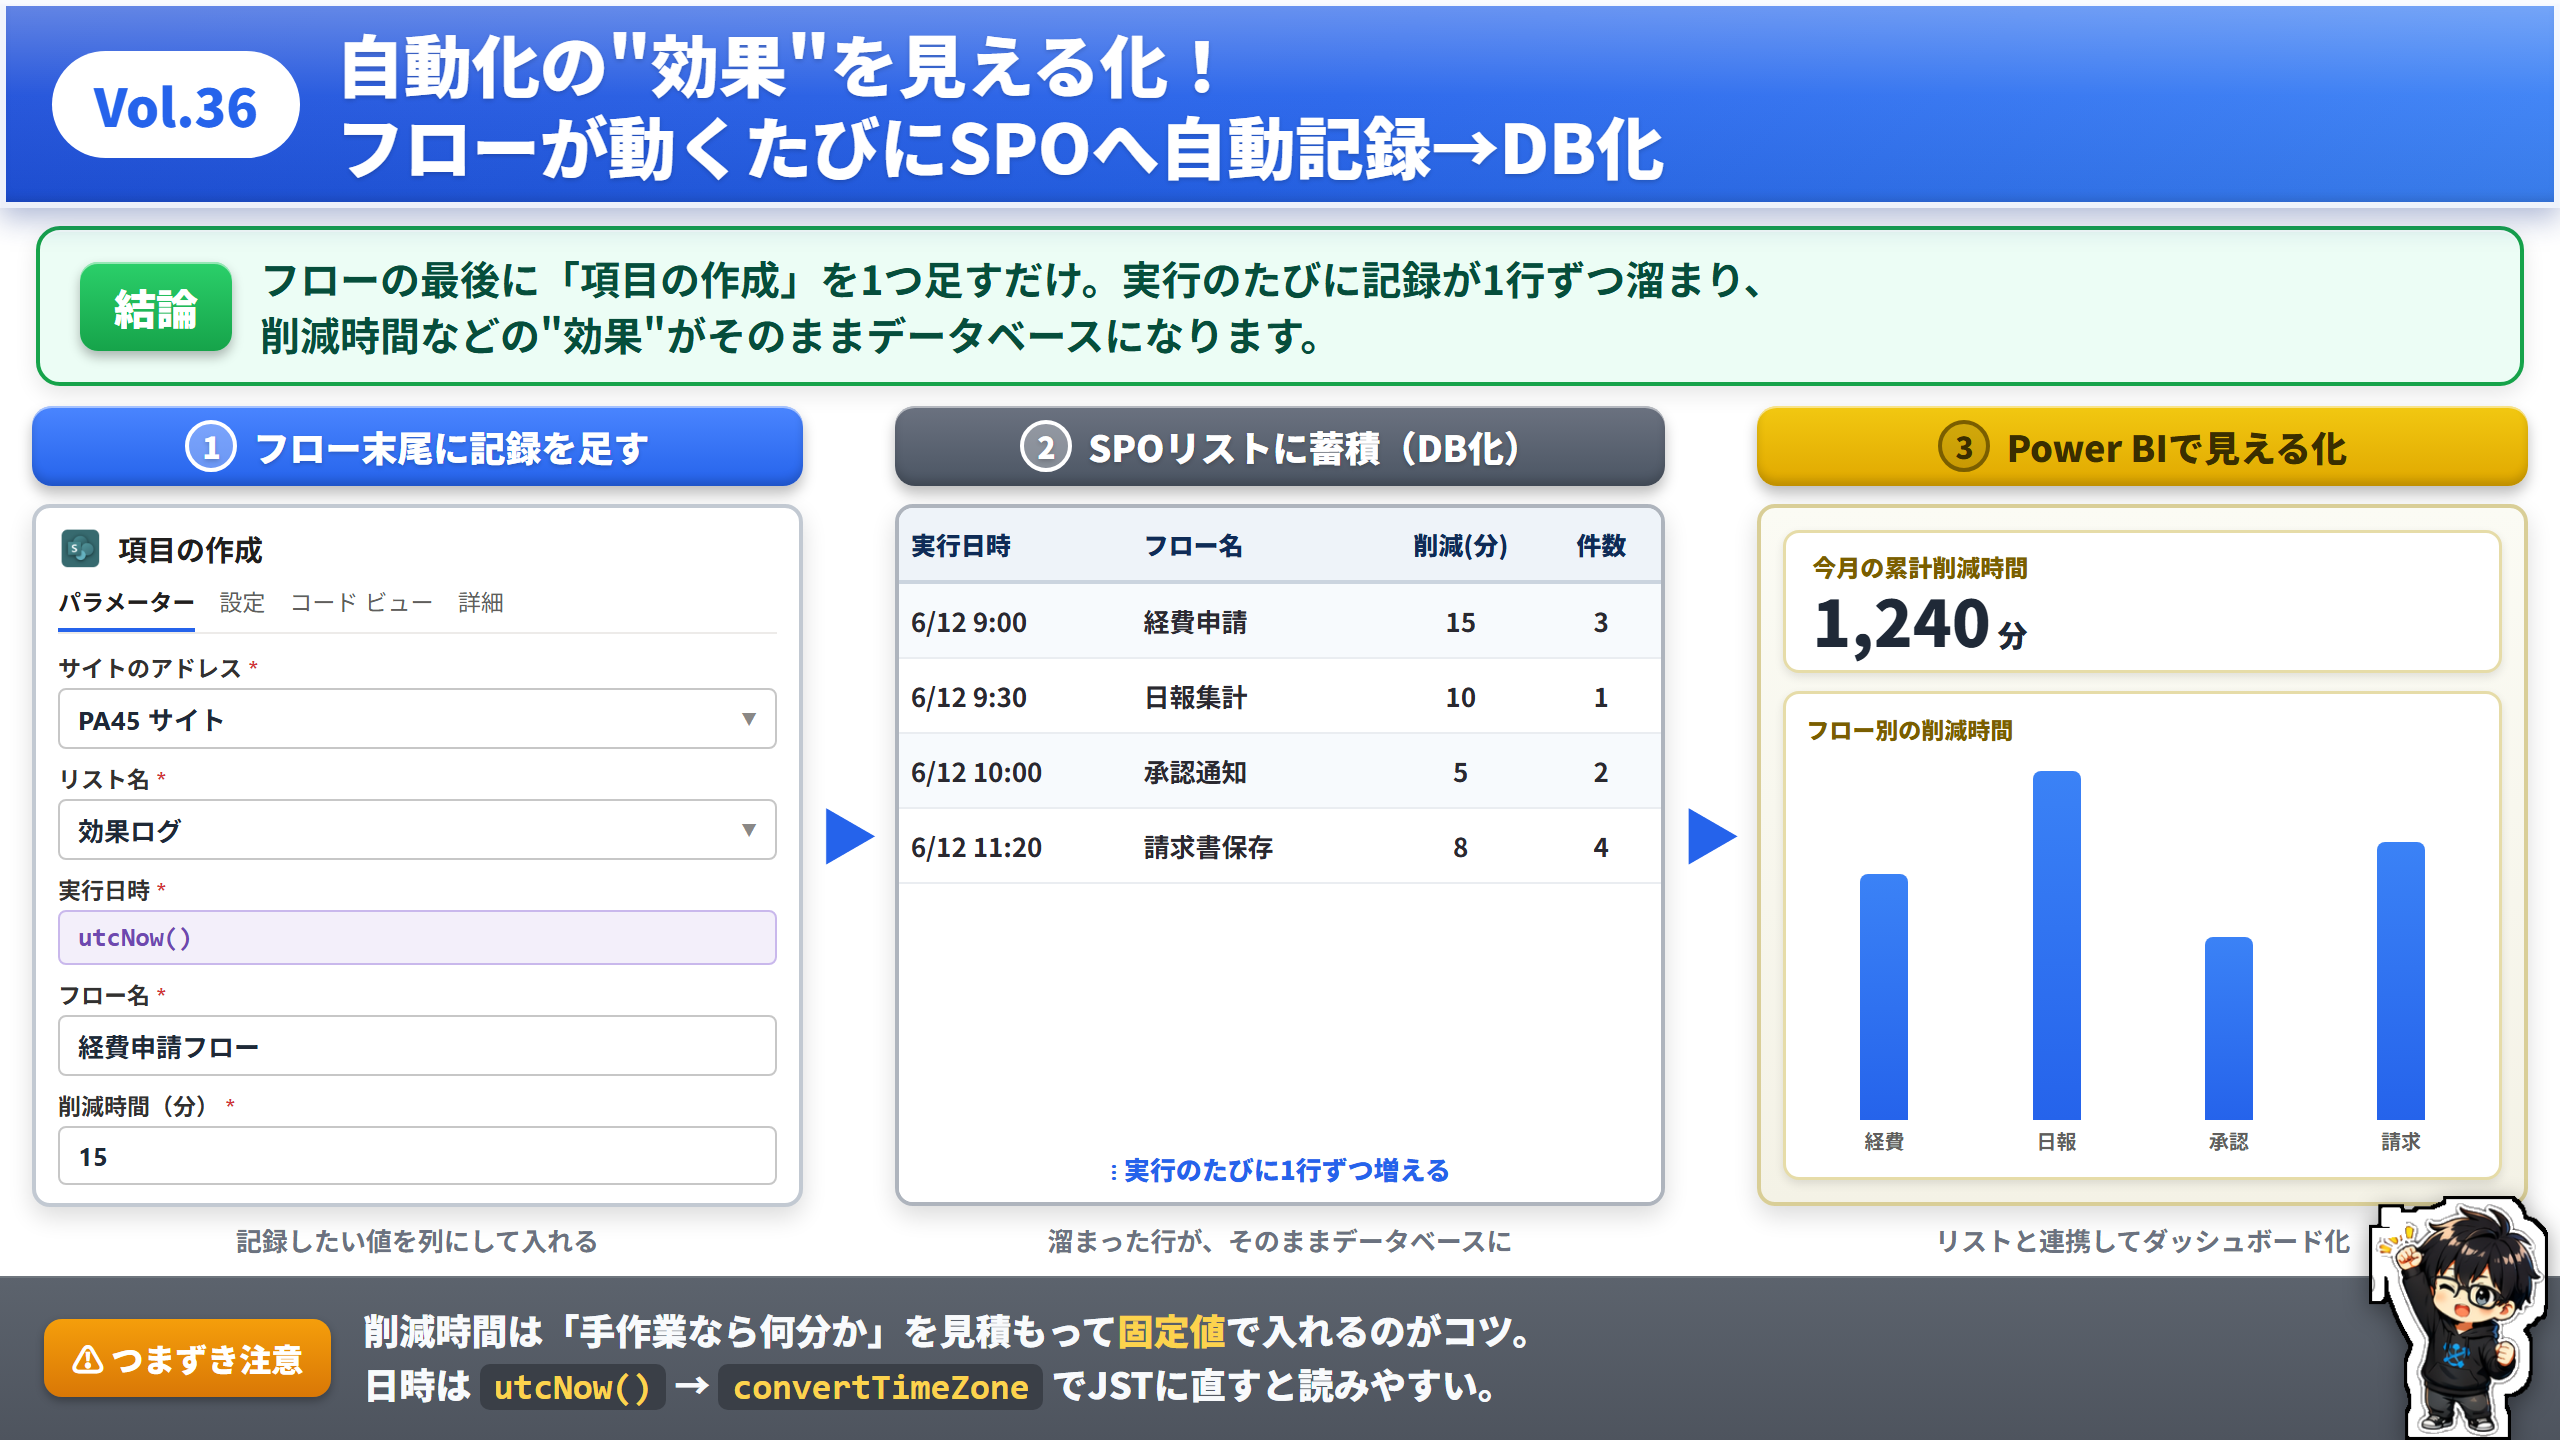
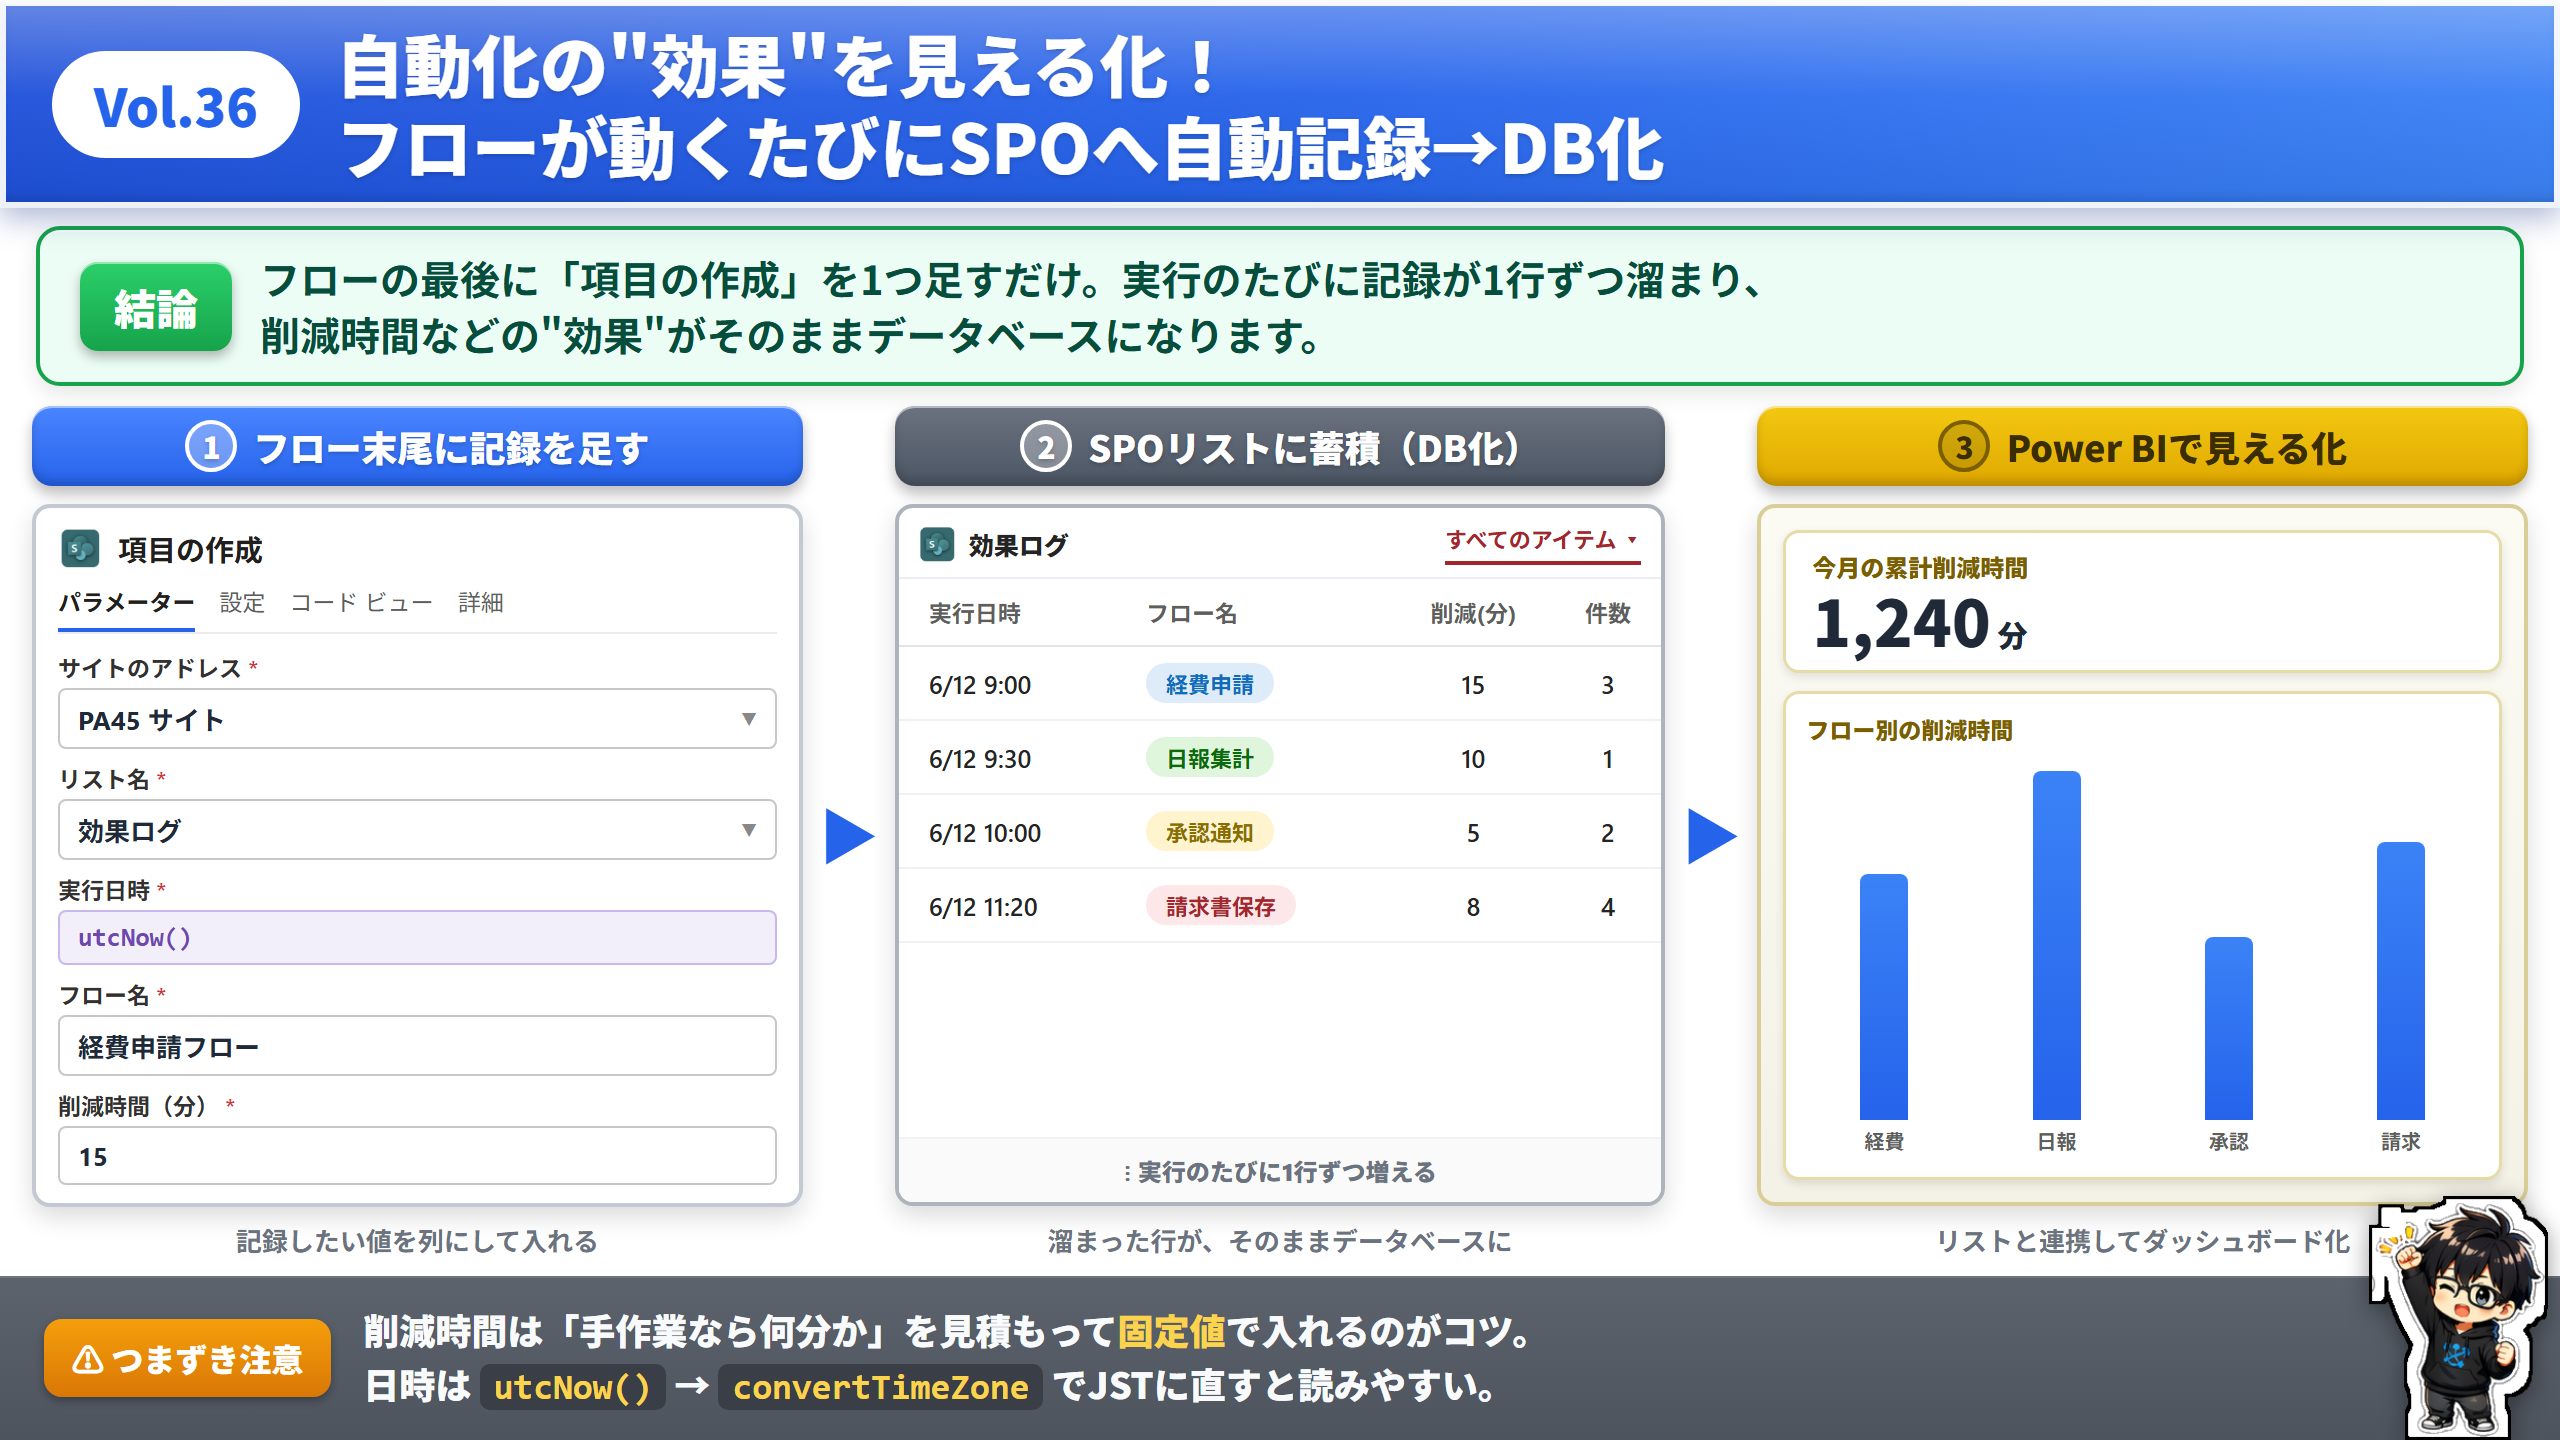
@ Vol.36 ②をMicrosoft Lists実画面に忠実再現(リスト名/ビュータブ/色付き選択肢ピル/列ヘッダー)
@

diff --git a/assets/x/html/vol-36/index.html b/assets/x/html/vol-36/index.html
@@ -52,15 +52,21 @@
   .fld .v .cv{color:#8A8886;font-size:9px;}
   .fld .v.dyn{color:#6E48B0;background:#F3EFFA;border-color:#C9B8EC;font-family:Consolas,monospace;}
 
-  /* ② SPOリスト テーブル */
-  .tbl{flex:1;background:#fff;border:2px solid #AEB4BD;border-radius:9px;box-shadow:0 5px 12px rgba(0,0,0,.14);overflow:hidden;display:flex;flex-direction:column;}
-  .tbl .tt{background:#EEF3F9;border-bottom:2px solid #CBD4DF;display:flex;font-weight:900;font-size:12.5px;color:#0F2B57;}
-  .tbl .tt div{padding:9px 6px;}
-  .tbl .row{display:flex;font-size:13px;font-weight:700;color:#2A2930;border-bottom:1px solid #EAEDF1;}
-  .tbl .row:nth-child(even){background:#F7FAFD;}
-  .tbl .row div{padding:9px 6px;}
-  .c1{flex:1.3;} .c2{flex:1.4;} .c3{flex:.85;text-align:center;} .c4{flex:.6;text-align:center;}
-  .tbl .more{padding:7px;text-align:center;color:var(--blue);font-weight:900;font-size:13px;background:#fff;margin-top:auto;}
+  /* ② Microsoft Lists 忠実再現 */
+  .lst{flex:1;background:#fff;border:2px solid #AEB4BD;border-radius:9px;box-shadow:0 5px 12px rgba(0,0,0,.14);overflow:hidden;display:flex;flex-direction:column;font-family:'Segoe UI','Noto Sans JP',sans-serif;}
+  .lst .lh{display:flex;align-items:center;gap:7px;padding:7px 10px 6px;border-bottom:1px solid #EAEDF1;}
+  .lst .lh .li{width:18px;height:18px;object-fit:contain;}
+  .lst .lh .ln{font-size:12.5px;font-weight:800;color:#242424;}
+  .lst .lh .tab{margin-left:auto;font-size:11px;font-weight:700;color:#A4262C;border-bottom:2px solid #A4262C;padding-bottom:3px;}
+  .lst .ch{display:flex;border-bottom:1px solid #E3E3E3;font-size:11.5px;font-weight:700;color:#605E5C;}
+  .lst .ch div{padding:8px 5px;}
+  .lst .rw{display:flex;align-items:center;font-size:12.5px;color:#242424;font-weight:600;border-bottom:1px solid #F1F1F1;}
+  .lst .rw div{padding:8px 5px;}
+  .lst .sb{flex:0 0 3px;align-self:stretch;}
+  .lst .pill{display:inline-block;border-radius:12px;padding:2px 10px;font-size:11px;font-weight:700;}
+  .pl-b{background:#DEECF9;color:#0F6CBD;} .pl-g{background:#DFF6DD;color:#0B6A0B;} .pl-y{background:#FFF4CE;color:#8A6D00;} .pl-p{background:#FDE7E9;color:#A4262C;}
+  .lc1{flex:1.25;} .lc2{flex:1.5;} .lc3{flex:.9;text-align:center;} .lc4{flex:.55;text-align:center;}
+  .lst .more{padding:7px;text-align:center;color:var(--weak);font-weight:800;font-size:12px;background:#FAFAFA;margin-top:auto;border-top:1px solid #F1F1F1;}
 
   /* ③ Power BI ダッシュボード */
   .bi{flex:1;background:linear-gradient(180deg,#FBFBF4,#F4F2E6);border:2px solid #D9CE97;border-radius:9px;box-shadow:0 5px 12px rgba(0,0,0,.14);padding:11px;display:flex;flex-direction:column;gap:9px;}
@@ -124,12 +130,13 @@
     <div class="col">
       <div class="phead ph-gray"><span class="bdg">2</span>SPOリストに蓄積（DB化）</div>
       <div class="body">
-        <div class="tbl">
-          <div class="tt"><div class="c1">実行日時</div><div class="c2">フロー名</div><div class="c3">削減(分)</div><div class="c4">件数</div></div>
-          <div class="row"><div class="c1">6/12 9:00</div><div class="c2">経費申請</div><div class="c3">15</div><div class="c4">3</div></div>
-          <div class="row"><div class="c1">6/12 9:30</div><div class="c2">日報集計</div><div class="c3">10</div><div class="c4">1</div></div>
-          <div class="row"><div class="c1">6/12 10:00</div><div class="c2">承認通知</div><div class="c3">5</div><div class="c4">2</div></div>
-          <div class="row"><div class="c1">6/12 11:20</div><div class="c2">請求書保存</div><div class="c3">8</div><div class="c4">4</div></div>
+        <div class="lst">
+          <div class="lh"><img class="li" src="../../pptx/_assets/icons/pa_sharepoint.png" alt=""><span class="ln">効果ログ</span><span class="tab">すべてのアイテム ▾</span></div>
+          <div class="ch"><div class="sb"></div><div class="lc1">実行日時</div><div class="lc2">フロー名</div><div class="lc3">削減(分)</div><div class="lc4">件数</div></div>
+          <div class="rw"><div class="sb"></div><div class="lc1">6/12 9:00</div><div class="lc2"><span class="pill pl-b">経費申請</span></div><div class="lc3">15</div><div class="lc4">3</div></div>
+          <div class="rw"><div class="sb"></div><div class="lc1">6/12 9:30</div><div class="lc2"><span class="pill pl-g">日報集計</span></div><div class="lc3">10</div><div class="lc4">1</div></div>
+          <div class="rw"><div class="sb"></div><div class="lc1">6/12 10:00</div><div class="lc2"><span class="pill pl-y">承認通知</span></div><div class="lc3">5</div><div class="lc4">2</div></div>
+          <div class="rw"><div class="sb"></div><div class="lc1">6/12 11:20</div><div class="lc2"><span class="pill pl-p">請求書保存</span></div><div class="lc3">8</div><div class="lc4">4</div></div>
           <div class="more">⋮ 実行のたびに1行ずつ増える</div>
         </div>
       </div>
